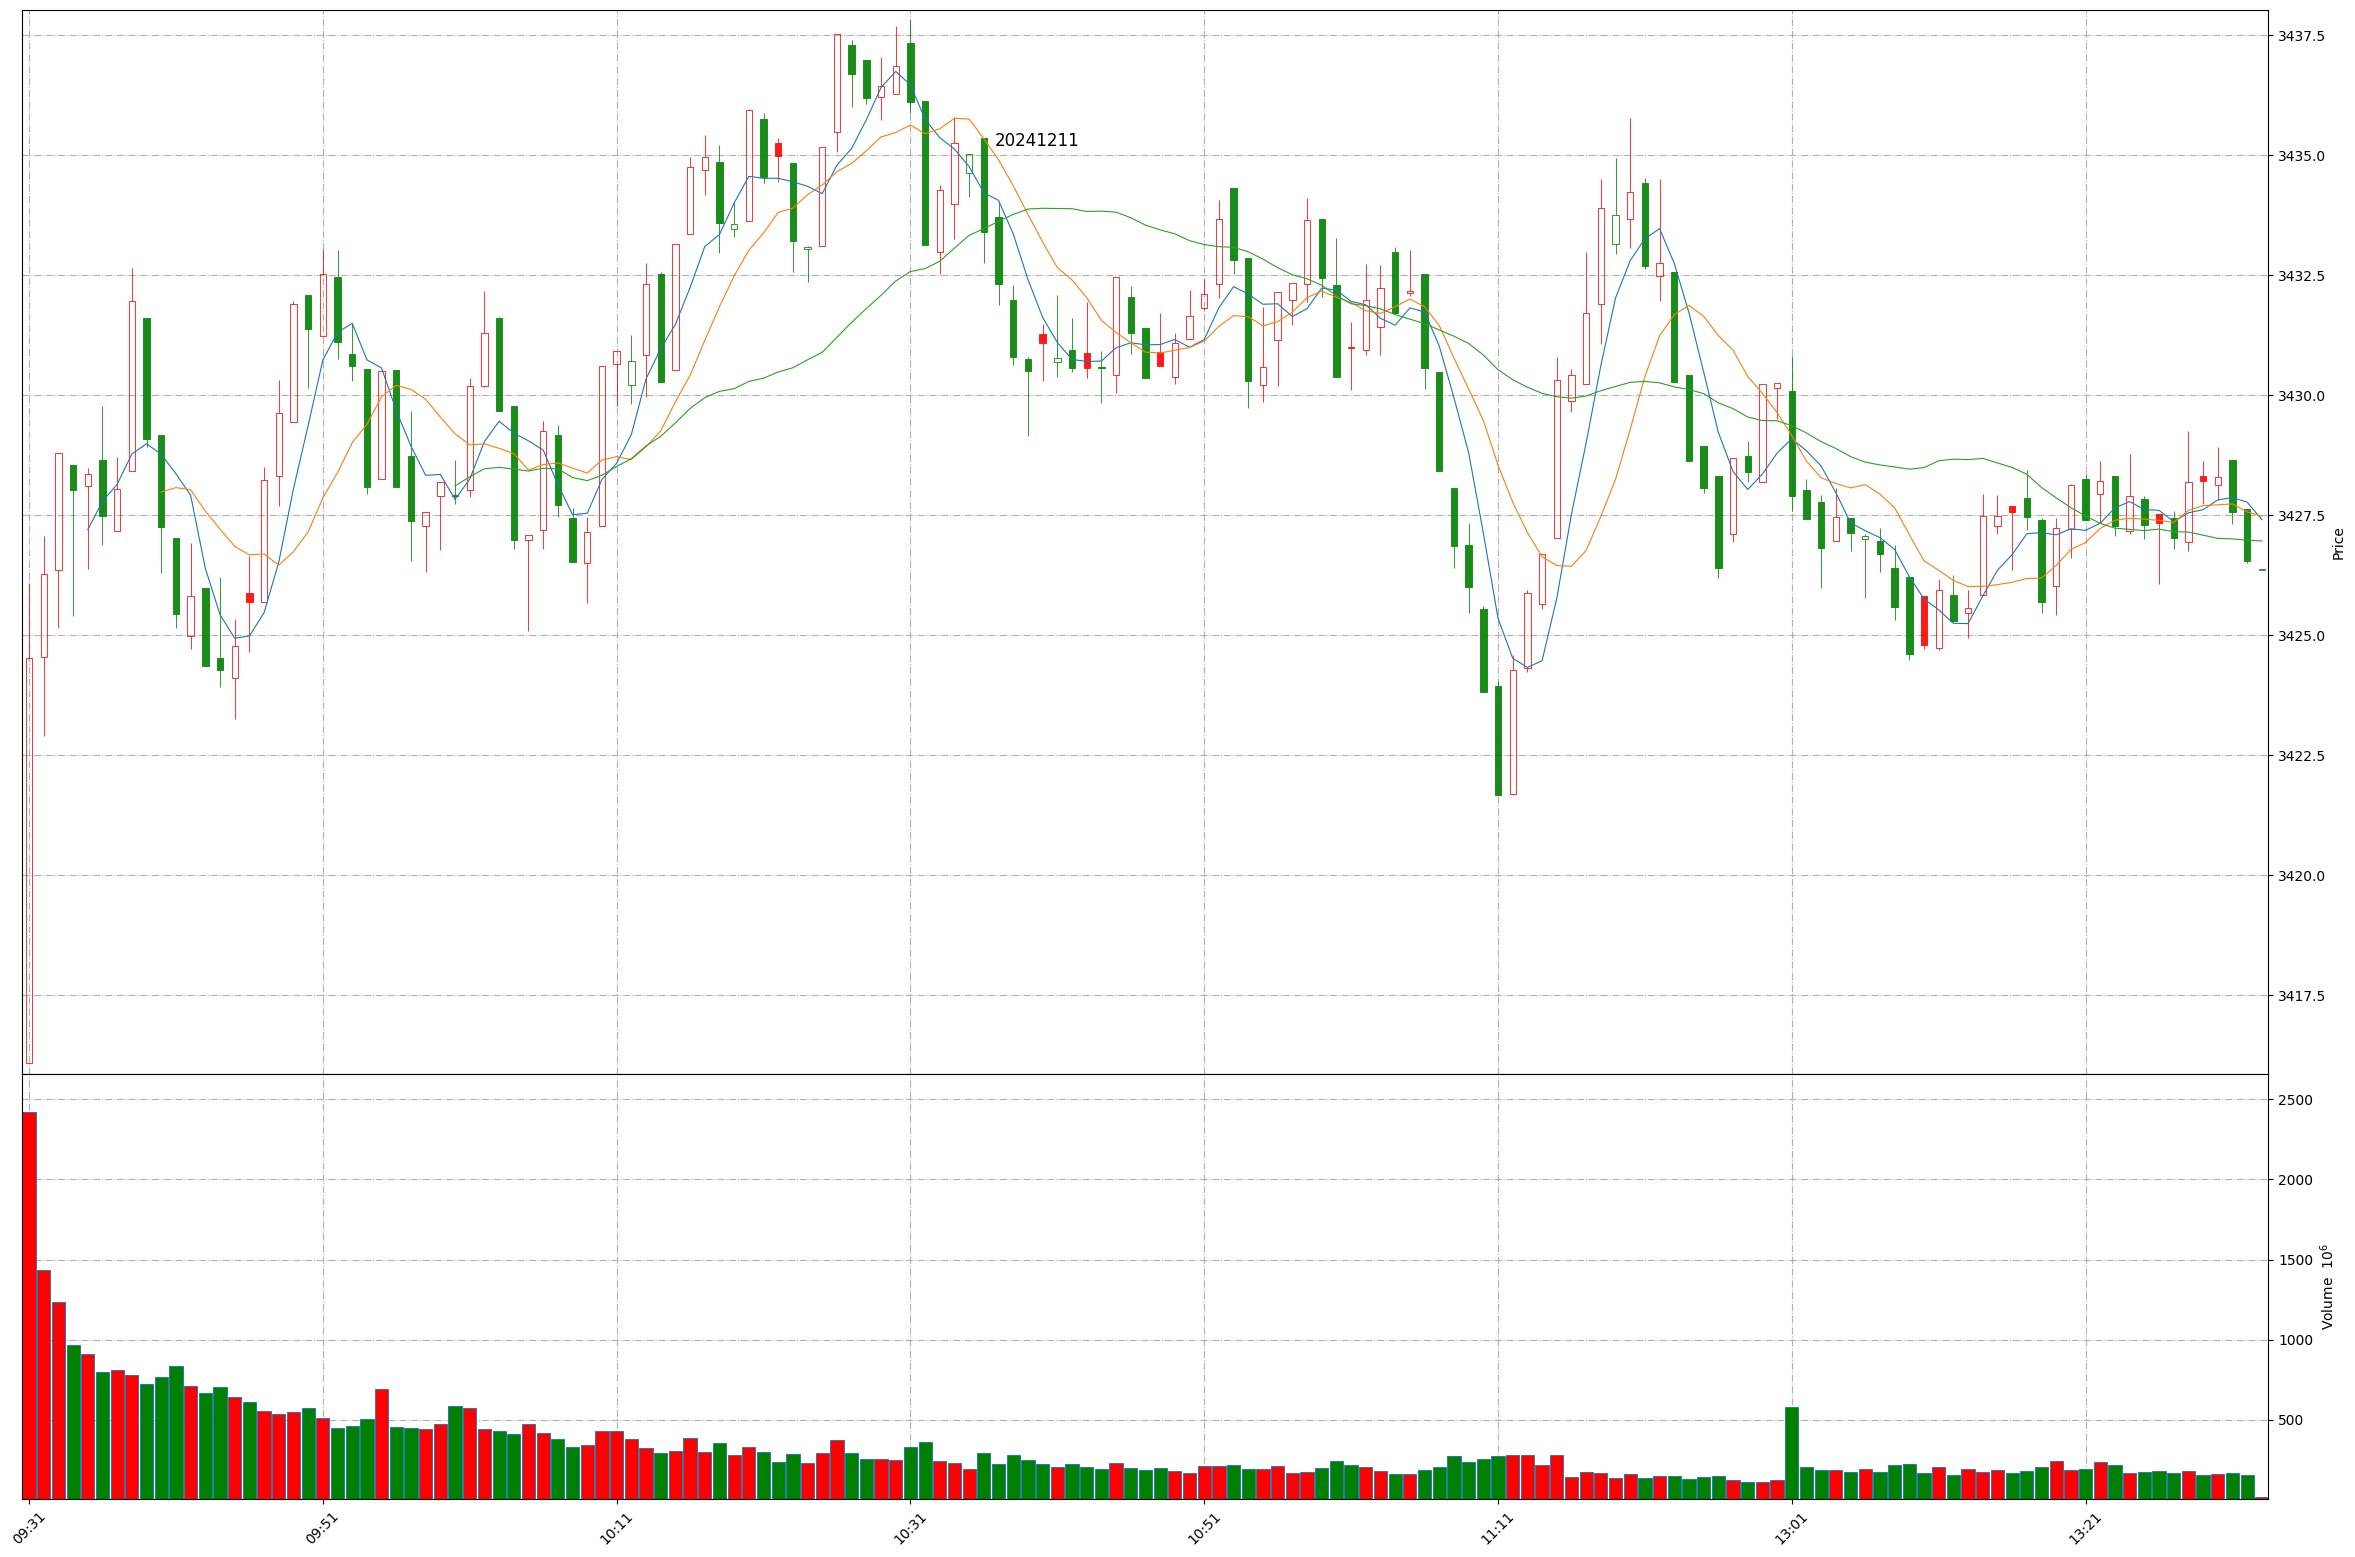
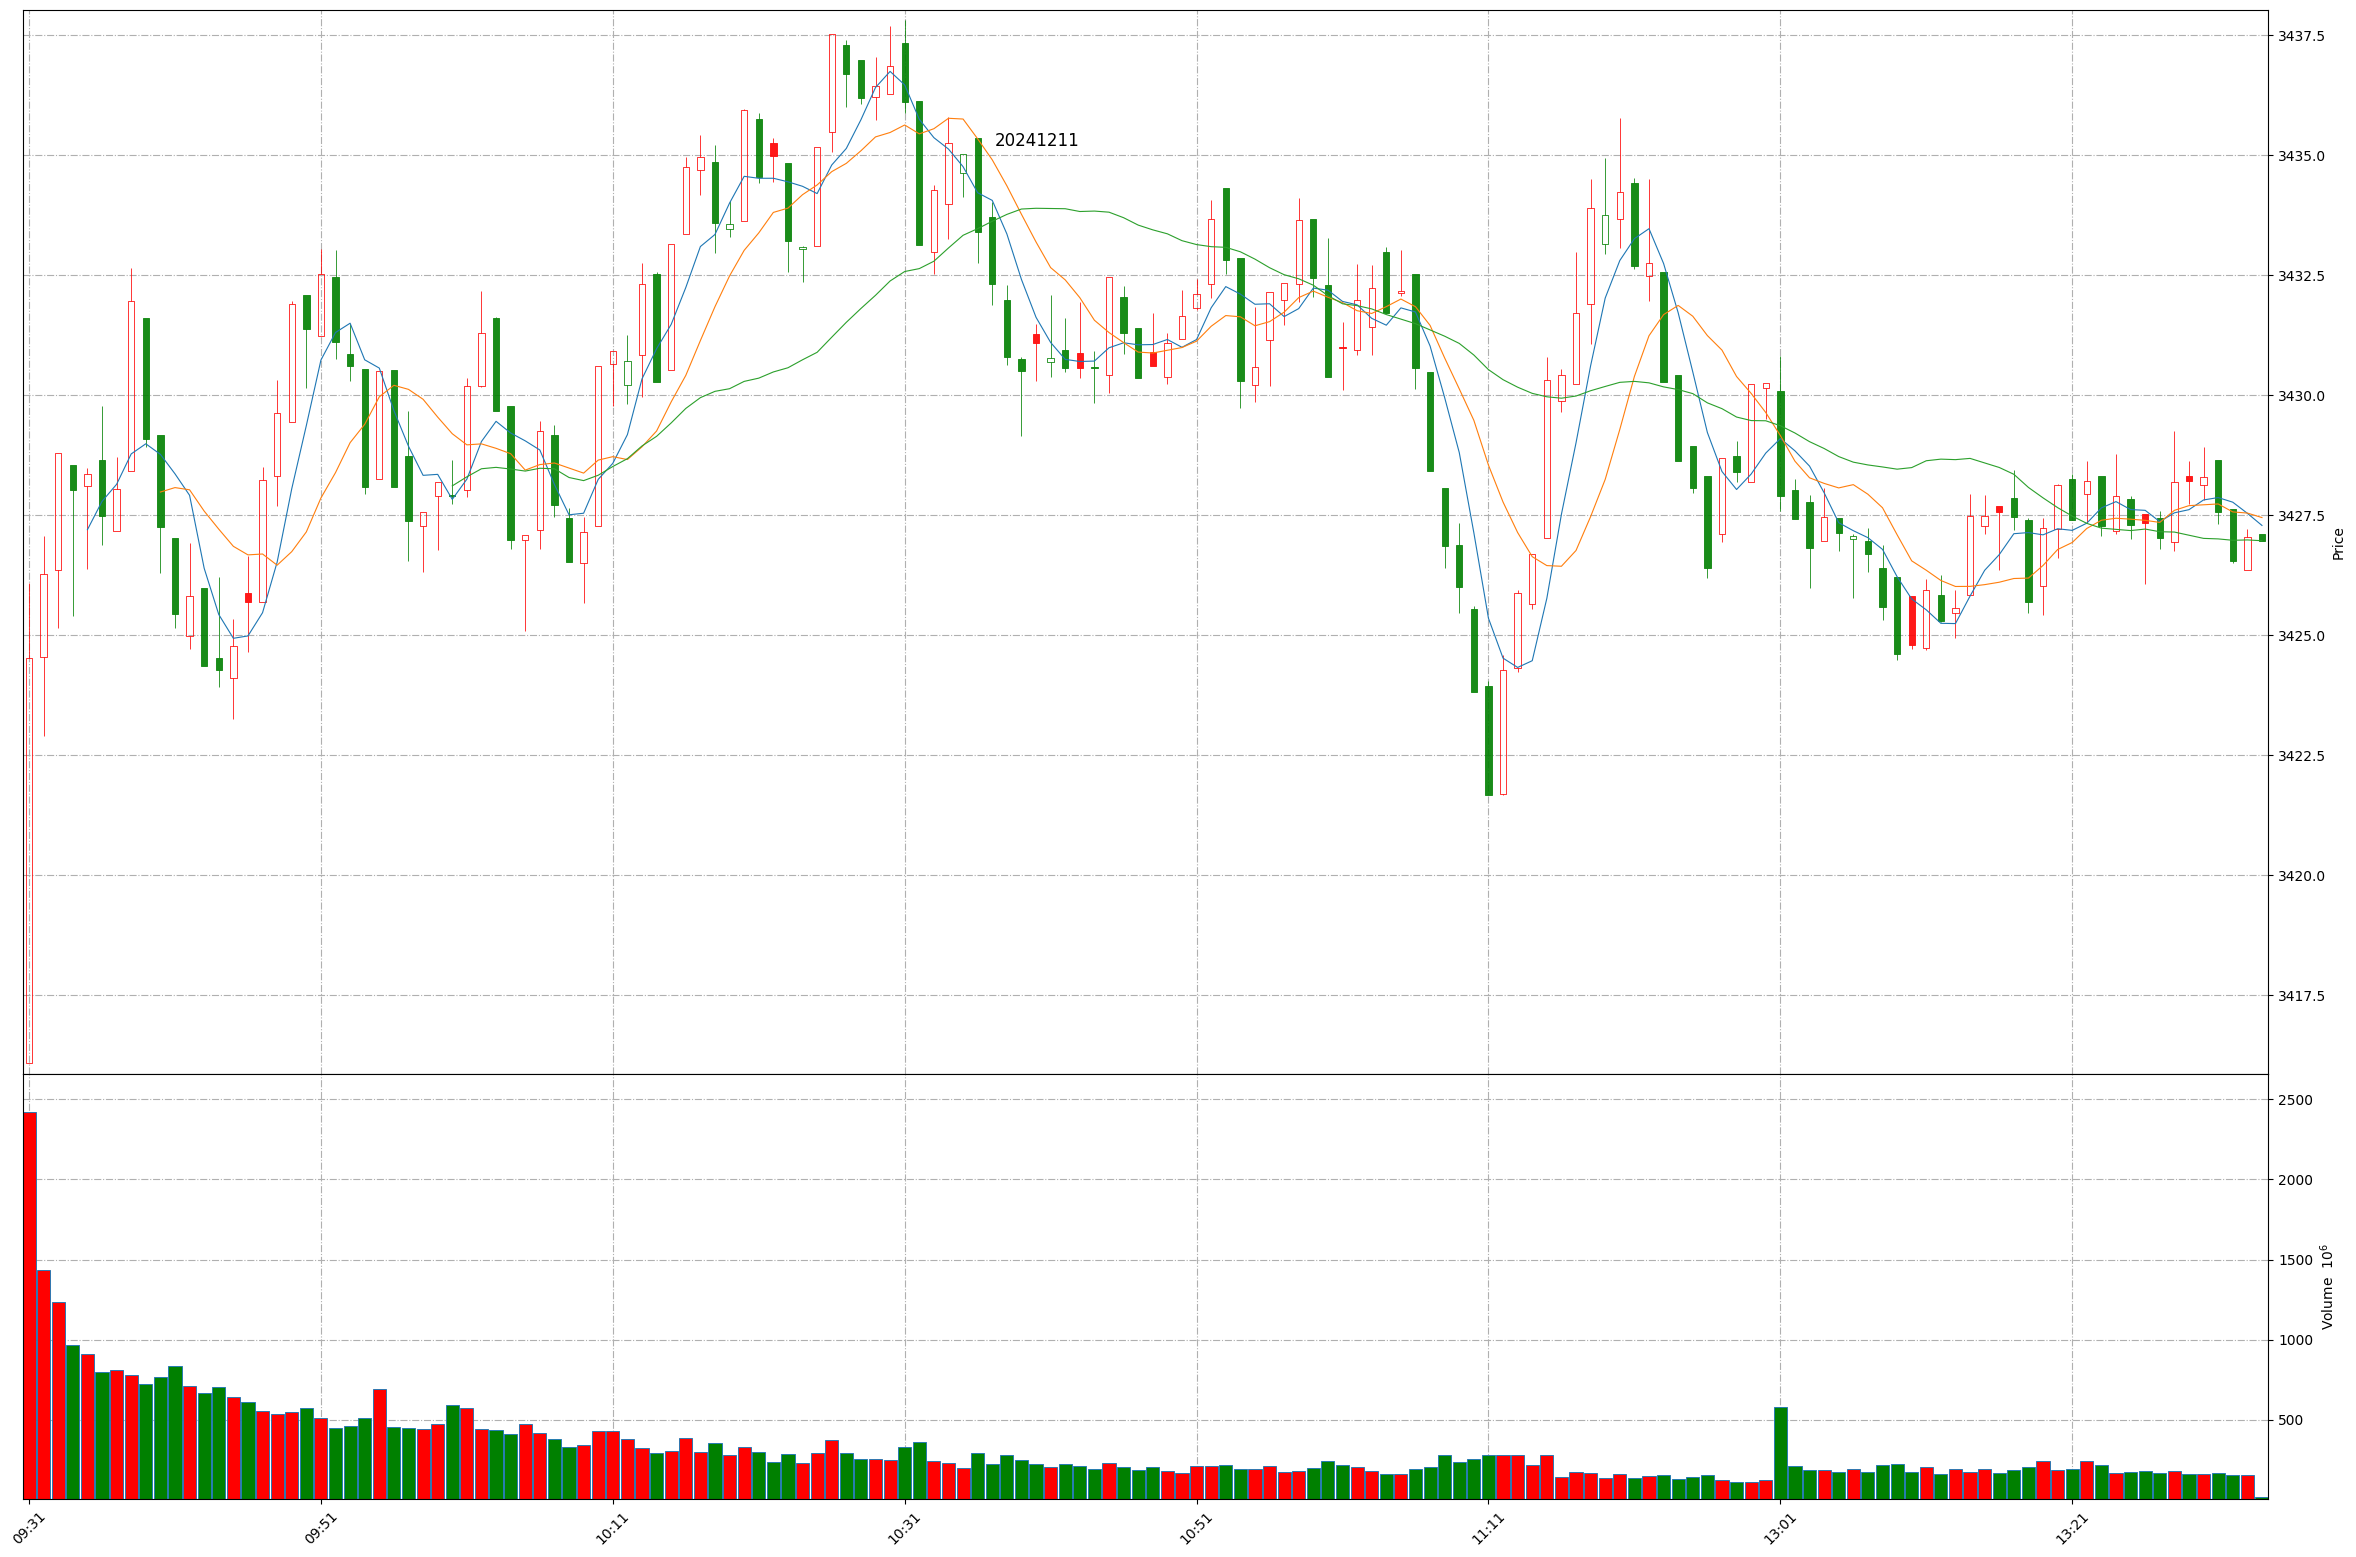
Github action update at 2024-12-11 13:33:32.

diff --git a/README.md b/README.md
@@ -1,11 +1,11 @@
 
 # Daily-A-share-market-quotes 每日 A 股指数（5min 更新）- 20241211
 
-### 上证指数 20241211 13:32
+### 上证指数 20241211 13:33
 ![](./fig/2024/12/20241211-sh000001.png)
 
-### 深证成指 20241211 13:32
+### 深证成指 20241211 13:33
 ![](./fig/2024/12/20241211-sz399001.png)
 
-### 北证50 20241211 13:32
+### 北证50 20241211 13:33
 ![](./fig/2024/12/20241211-bj899050.png)
